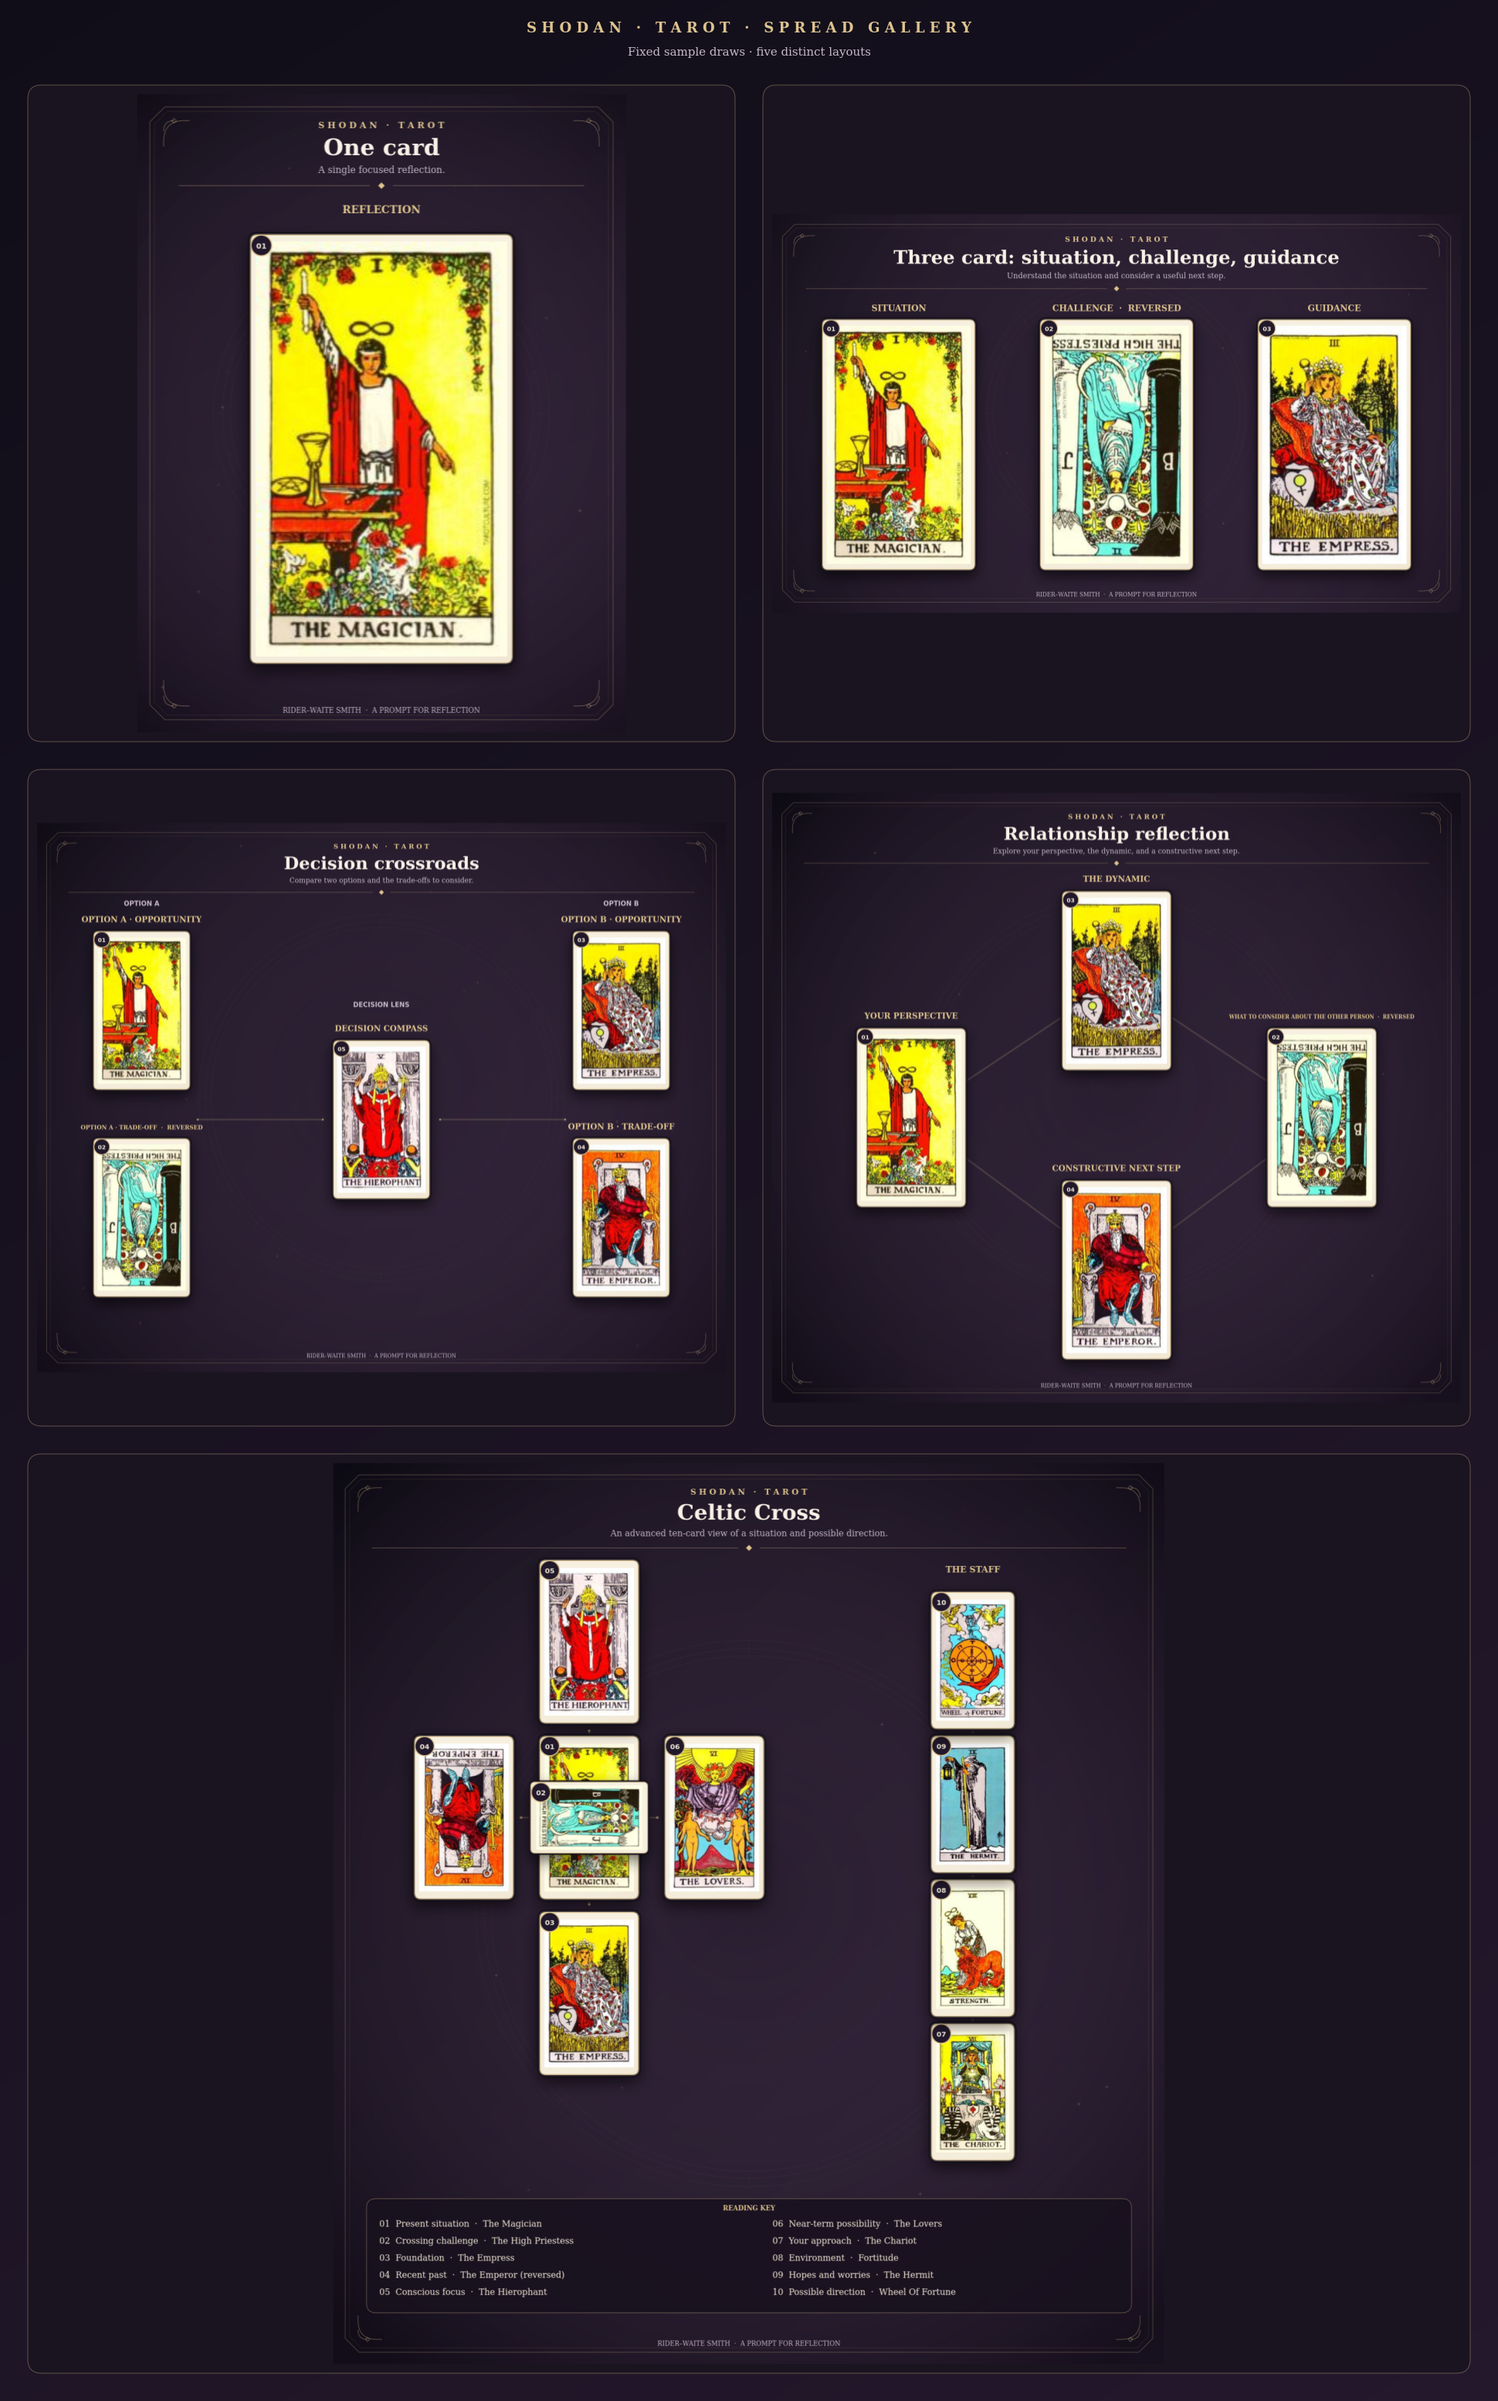
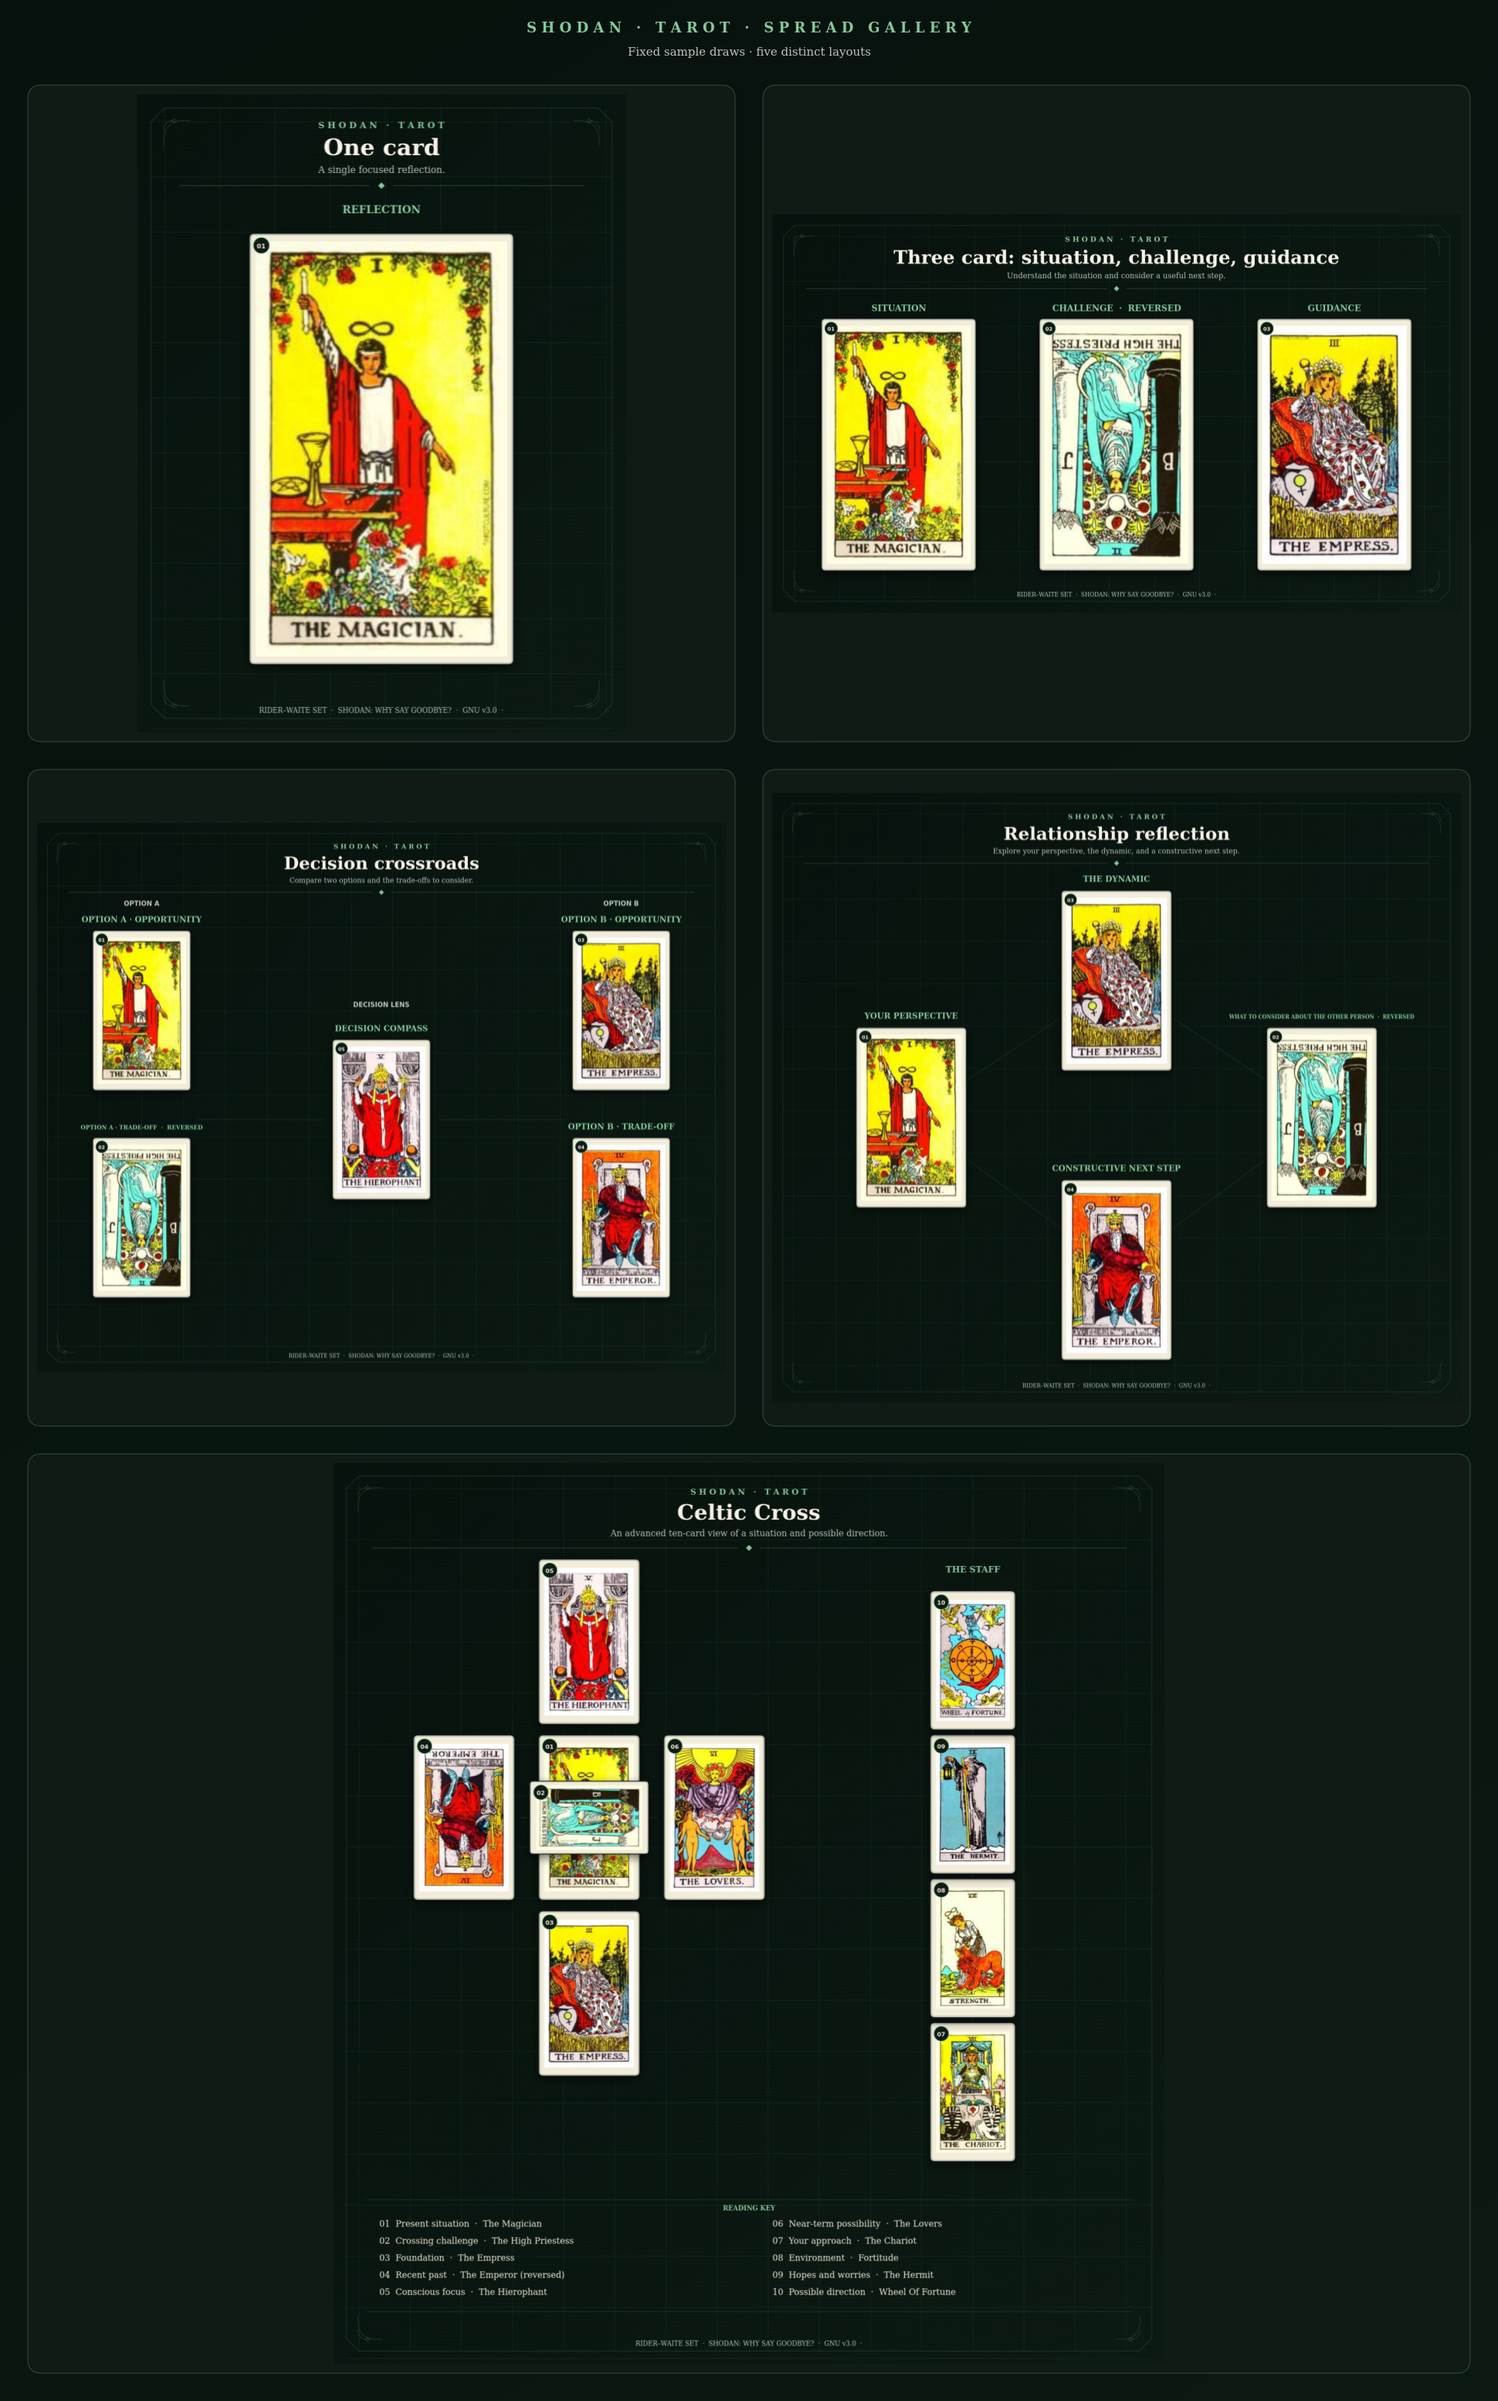
experiment with canvas

diff --git a/src/rendering/divination/components.ts b/src/rendering/divination/components.ts
@@ -18,15 +18,15 @@ import type { DrawnCard } from '../../services/divination-reading'
 import type { CardImage, DrawingContext, Point } from './types'
 
 export const palette = {
-  backgroundTop: '#100d18',
-  backgroundBottom: '#24182c',
-  panel: '#21182b',
-  panelHighlight: '#30213a',
-  gold: '#ddc38e',
-  goldDim: '#89734f',
+  backgroundTop: '#07110d',
+  backgroundBottom: '#0b1912',
+  panel: '#101b15',
+  panelHighlight: '#19271e',
+  gold: '#83c99a',
+  goldDim: '#426b50',
   parchment: '#f4ecda',
   text: '#f7f1e7',
-  muted: '#c7b9cb',
+  muted: '#b8c8bc',
   purple: '#a77cc0'
 }
 
@@ -80,59 +80,88 @@ export function drawBackground(
   context.fillStyle = gradient
   context.fillRect(0, 0, width, height)
 
-  const glow = context.createRadialGradient(
-    width * 0.5,
-    height * 0.48,
-    0,
-    width * 0.5,
-    height * 0.48,
-    Math.max(width, height) * 0.65
-  )
-  glow.addColorStop(0, 'rgba(154, 112, 156, 0.12)')
-  glow.addColorStop(1, 'rgba(9, 7, 14, 0.48)')
-  context.fillStyle = glow
-  context.fillRect(0, 0, width, height)
+  drawWaveThreads(context, width, height)
+  drawBlueprintGrid(context, width, height)
+  drawFiligreeCorners(context, width, height)
 
-  drawCelestialEngraving(context, width, height)
+  context.strokeStyle = 'rgba(131, 201, 154, 0.28)'
+  context.lineWidth = 0.8
+  clippedRect(context, 24, 24, width - 48, height - 48, 24)
+  context.stroke()
+}
 
-  // A seeded star field gives the paper a little texture without changing
-  // between renders of the same canvas size.
+/** Fine deterministic thread lines form a woven wave texture beneath the cards. */
+function drawWaveThreads(
+  context: DrawingContext,
+  width: number,
+  height: number
+): void {
   context.save()
-  let state = (Math.imul(width, 73856093) ^ Math.imul(height, 19349663)) >>> 0
-  const random = (): number => {
-    state = (Math.imul(state, 1664525) + 1013904223) >>> 0
-    return state / 0x100000000
-  }
-  context.strokeStyle = palette.gold
-  for (let index = 0; index < 180; index += 1) {
-    const x = 38 + random() * (width - 76)
-    const y = 38 + random() * (height - 76)
-    const radius = random() > 0.94 ? 2.2 : 0.8
-    context.globalAlpha = 0.06 + random() * 0.1
-    context.beginPath()
-    context.arc(x, y, radius, 0, Math.PI * 2)
-    context.fillStyle = palette.gold
-    context.fill()
-    if (radius > 2) {
-      context.globalAlpha *= 0.65
-      context.lineWidth = 0.7
+  context.strokeStyle = 'rgba(77, 157, 104, 0.038)'
+  context.lineWidth = 0.48
+  context.lineCap = 'round'
+
+  const spacing = 7
+  const step = 18
+  for (let row = -1; row * spacing < height; row += 1) {
+    const baseline = row * spacing
+    const phase = row * 0.075
+    for (const threadOffset of [-0.8, 0.8]) {
       context.beginPath()
-      context.moveTo(x - 5, y)
-      context.lineTo(x + 5, y)
-      context.moveTo(x, y - 5)
-      context.lineTo(x, y + 5)
+      for (let x = 0; x <= width + step; x += step) {
+        const progress = x / width
+        const broadWave = Math.sin(progress * Math.PI * 3 + phase) * 2.8
+        const fineWave = Math.sin(progress * Math.PI * 9 - phase * 0.72) * 0.65
+        const y = baseline + broadWave + fineWave + threadOffset
+        if (x === 0) context.moveTo(x, y)
+        else context.lineTo(x, y)
+      }
       context.stroke()
     }
   }
-  context.restore()
 
-  context.strokeStyle = 'rgba(221, 195, 142, 0.38)'
-  context.lineWidth = 1
-  clippedRect(context, 22, 22, width - 44, height - 44, 26)
+  for (let column = -1; column * spacing < width; column += 1) {
+    const baseline = column * spacing
+    const phase = column * 0.075
+    for (const threadOffset of [-0.8, 0.8]) {
+      context.beginPath()
+      for (let y = 0; y <= height + step; y += step) {
+        const progress = y / height
+        const broadWave = Math.sin(progress * Math.PI * 3 + phase) * 2.8
+        const fineWave = Math.sin(progress * Math.PI * 9 - phase * 0.72) * 0.65
+        const x = baseline + broadWave + fineWave + threadOffset
+        if (y === 0) context.moveTo(x, y)
+        else context.lineTo(x, y)
+      }
+      context.stroke()
+    }
+  }
+
+  context.restore()
+}
+
+/** Blueprint grid is measured in nominal 96-pixel inches. */
+function drawBlueprintGrid(
+  context: DrawingContext,
+  width: number,
+  height: number
+): void {
+  const inch = 96
+  const offset = inch / 2
+  context.save()
+  context.strokeStyle = 'rgba(92, 190, 126, 0.17)'
+  context.lineWidth = 0.7
+  context.beginPath()
+  for (let x = offset; x < width; x += inch) {
+    context.moveTo(x, 24)
+    context.lineTo(x, height - 24)
+  }
+  for (let y = offset; y < height; y += inch) {
+    context.moveTo(24, y)
+    context.lineTo(width - 24, y)
+  }
   context.stroke()
-  context.strokeStyle = 'rgba(221, 195, 142, 0.12)'
-  clippedRect(context, 30, 30, width - 60, height - 60, 22)
-  context.stroke()
+  context.restore()
 }
 
 function clippedRect(
@@ -155,32 +184,11 @@ function clippedRect(
   context.closePath()
 }
 
-function drawCelestialEngraving(
+function drawFiligreeCorners(
   context: DrawingContext,
   width: number,
   height: number
 ): void {
-  context.save()
-  context.translate(width / 2, height / 2)
-  const radius = Math.min(width, height) * 0.31
-  context.strokeStyle = 'rgba(221, 195, 142, 0.055)'
-  context.lineWidth = 1
-  for (const inset of [0, 13, 29]) {
-    context.beginPath()
-    context.arc(0, 0, radius + inset, 0, Math.PI * 2)
-    context.stroke()
-  }
-  for (let index = 0; index < 24; index += 1) {
-    const angle = (index / 24) * Math.PI * 2
-    const inner = radius + 4
-    const outer = radius + (index % 3 === 0 ? 25 : 15)
-    context.beginPath()
-    context.moveTo(Math.cos(angle) * inner, Math.sin(angle) * inner)
-    context.lineTo(Math.cos(angle) * outer, Math.sin(angle) * outer)
-    context.stroke()
-  }
-  context.restore()
-
   const inset = 46
   const size = 18
   const corners = [
@@ -190,8 +198,8 @@ function drawCelestialEngraving(
     { x: inset, y: height - inset, sx: 1, sy: -1 }
   ]
   context.save()
-  context.strokeStyle = 'rgba(221, 195, 142, 0.48)'
-  context.lineWidth = 1
+  context.strokeStyle = 'rgba(131, 201, 154, 0.34)'
+  context.lineWidth = 0.7
   for (const corner of corners) {
     context.save()
     context.translate(corner.x, corner.y)
@@ -234,11 +242,19 @@ export function drawHeader(
   context.fillText(spread.name, width / 2, 106, width - 110)
 
   context.fillStyle = palette.muted
-  setFittedFont(context, spread.description, width - 150, 16, 12, '400', 'serif')
+  setFittedFont(
+    context,
+    spread.description,
+    width - 150,
+    16,
+    12,
+    '400',
+    'serif'
+  )
   context.fillText(spread.description, width / 2, 137, width - 150)
 
   const y = 159
-  context.strokeStyle = 'rgba(221, 195, 142, 0.44)'
+  context.strokeStyle = 'rgba(131, 201, 154, 0.34)'
   context.lineWidth = 1
   context.beginPath()
   context.moveTo(72, y)
@@ -264,7 +280,7 @@ export function drawFooter(
   context.fillStyle = palette.muted
   context.font = '500 12px serif'
   context.fillText(
-    'RIDER–WAITE SMITH  ·  A PROMPT FOR REFLECTION',
+    'RIDER–WAITE SET  ·  SHODAN: WHY SAY GOODBYE?  ·  GNU v3.0  ·',
     width / 2,
     height - 34
   )
@@ -294,13 +310,13 @@ function drawBadge(
   context.save()
   context.fillStyle = palette.panel
   context.strokeStyle = palette.gold
-  context.lineWidth = 2
+  context.lineWidth = 1
   context.beginPath()
-  context.arc(x, y, 18, 0, Math.PI * 2)
+  context.arc(x, y, 14, 0, Math.PI * 2)
   context.fill()
   context.stroke()
   context.fillStyle = palette.parchment
-  context.font = '700 13px sans-serif'
+  context.font = '700 11px sans-serif'
   context.textAlign = 'center'
   context.textBaseline = 'middle'
   context.fillText(String(number).padStart(2, '0'), x, y + 1)
@@ -327,30 +343,26 @@ export function drawCard(
   context.translate(centerX, centerY)
   context.rotate(rotation)
   context.shadowColor = 'rgba(0, 0, 0, 0.6)'
-  context.shadowBlur = 24
-  context.shadowOffsetY = 12
-  roundedRect(context, -width / 2, -height / 2, width, height, 14 * scale)
-  const mat = context.createLinearGradient(-width / 2, 0, width / 2, height)
-  mat.addColorStop(0, '#f7f0e1')
-  mat.addColorStop(0.52, palette.parchment)
-  mat.addColorStop(1, '#e4d7bd')
-  context.fillStyle = mat
+  context.shadowBlur = 16
+  context.shadowOffsetY = 7
+  roundedRect(context, -width / 2, -height / 2, width, height, 9 * scale)
+  context.fillStyle = palette.parchment
   context.fill()
   context.shadowColor = 'transparent'
   context.shadowBlur = 0
   context.shadowOffsetY = 0
-  context.strokeStyle = 'rgba(17, 12, 20, 0.8)'
-  context.lineWidth = 5 * scale
+  context.strokeStyle = 'rgba(17, 12, 20, 0.72)'
+  context.lineWidth = 3 * scale
   context.stroke()
   context.strokeStyle = palette.gold
-  context.lineWidth = 1.5 * scale
+  context.lineWidth = 0.9 * scale
   roundedRect(
     context,
     -width / 2 + 3 * scale,
     -height / 2 + 3 * scale,
     width - 6 * scale,
     height - 6 * scale,
-    11 * scale
+    7 * scale
   )
   context.stroke()
 
@@ -427,24 +439,13 @@ export function drawConnector(
 ): void {
   if (points.length < 2) return
   context.save()
-  context.strokeStyle = 'rgba(221, 195, 142, 0.08)'
-  context.lineWidth = 5
+  context.strokeStyle = 'rgba(131, 201, 154, 0.22)'
+  context.lineWidth = 0.9
+  context.lineCap = 'round'
   context.beginPath()
   context.moveTo(points[0].x, points[0].y)
   points.slice(1).forEach((point) => context.lineTo(point.x, point.y))
   context.stroke()
-  context.strokeStyle = 'rgba(221, 195, 142, 0.32)'
-  context.lineWidth = 1
-  context.beginPath()
-  context.moveTo(points[0].x, points[0].y)
-  points.slice(1).forEach((point) => context.lineTo(point.x, point.y))
-  context.stroke()
-  for (const point of [points[0], points[points.length - 1]]) {
-    context.fillStyle = 'rgba(221, 195, 142, 0.64)'
-    context.beginPath()
-    context.arc(point.x, point.y, 2.4, 0, Math.PI * 2)
-    context.fill()
-  }
   context.restore()
 }
 
@@ -461,11 +462,13 @@ export function drawLegend(
   const rowsPerColumn = Math.ceil(draws.length / 2)
   const boxHeight = rowsPerColumn * rowHeight + 54
 
-  roundedRect(context, padding, top, width - padding * 2, boxHeight, 18)
-  context.fillStyle = 'rgba(24, 17, 30, 0.86)'
-  context.fill()
-  context.strokeStyle = 'rgba(221, 195, 142, 0.48)'
-  context.lineWidth = 1
+  context.strokeStyle = 'rgba(131, 201, 154, 0.24)'
+  context.lineWidth = 0.8
+  context.beginPath()
+  context.moveTo(padding, top + 2)
+  context.lineTo(width - padding, top + 2)
+  context.moveTo(padding, top + boxHeight - 2)
+  context.lineTo(width - padding, top + boxHeight - 2)
   context.stroke()
 
   context.textAlign = 'center'

diff --git a/src/presentation/divination.ts b/src/presentation/divination.ts
@@ -59,7 +59,7 @@ export function buildDivinationEmbed(
     })
   )
   embed.setFooter({
-    text: `Voice: ${wholesome ? 'Kind, perceptive friend' : persona.name}\nTake what resonates and leave what doesn’t. This is a prompt for reflection.\n\nSeed: ${replaySeed}`
+    text: `Voice: ${wholesome ? 'Kind, perceptive friend' : persona.name}\nTake what you find relatable, discard the rest. \n\nSeed: ${replaySeed}`
   })
   return embed
 }
